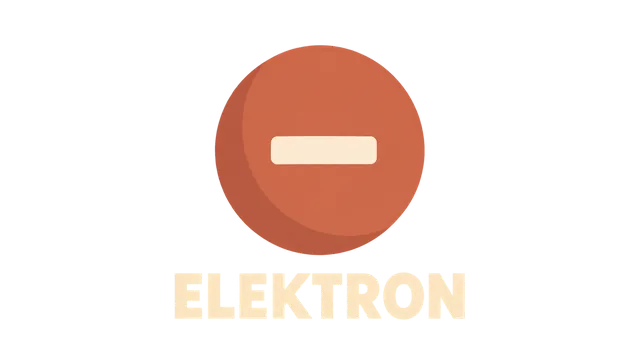
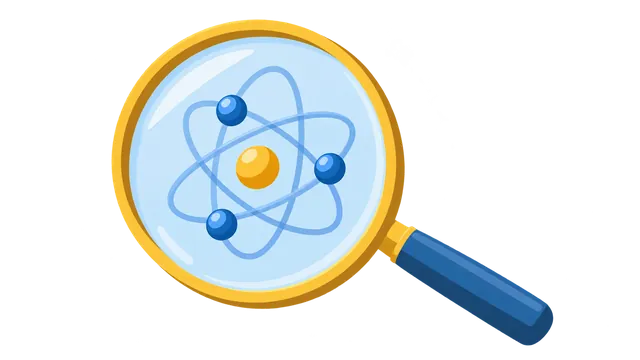
Nahraď popsané symboly názornými ilustracemi atomu a éteru

diff --git a/skills/faakt-illustrations/SKILL.md b/skills/faakt-illustrations/SKILL.md
@@ -20,9 +20,10 @@ Create recognizable, restrained editorial raster artwork from each post's `illus
 
 ### Meaning before generation
 
-- Define what a reader should recognize at a glance: the discovered entity, the experimental result, or the particular historical event. An instrument is a good main motif only when its action or result is readable without specialist knowledge. Otherwise prefer the discovered entity or a simple comparison of the result. Do not accept an uninformative apparatus by relabeling it as topic accompaniment in provenance.
+- Define the visual idea a reader should recognize at a glance: a relationship, discovery, historical event or an idea being investigated. A scientific post does not require a measurement diagram; a coherent editorial visualization of the article's central idea can work better. An instrument or isolated particle alone is insufficient when it contributes no meaningful relationship or context.
 - Preserve the cues that identify the particular event before simplifying: characteristic architecture, collective action, national context or period dress may be necessary together. A generic fortress gate does not identify the storming of the Bastille. Distinguish retrospective editorial symbols from objects actually present at a historical event; verify uncertain period details.
-- Simple comparison diagrams, one clear equality sign, charge marks and a short readable label are allowed when they make the post's result understandable. They need not reproduce the historical measuring instrument. Mark conceptual comparisons honestly and avoid implying that illustrative clocks or symbols were actual experimental equipment. Simplicity and shape-count targets must not remove the fact the image is meant to convey.
+- Never draw an object and add its name underneath as an explanation: that duplicates information instead of adding meaning. Do not rescue a weak image with a caption, an equality sign, clock icons or a collection of schematic marks. Convey the idea through the visible relationship, context, interaction or revealing detail. Text is justified only when it contributes distinct content, such as the origin of an aid crate; it must not merely name the pictured subject. Do not change unrelated accepted assets just because this rule changed.
+- An editorial visualization may depict a historical hypothesis that the article investigates or rejects. Preserve that distinction in metadata and provenance rather than forcing every image to diagram the final result. For the ether post, light undulating through an imagined mist-like medium depicts the historical idea, not evidence that ether exists. A magnifying-glass view revealing electrons depicts atomic internal structure, not literal optical microscopy or a historical atomic model.
 - State the post's central idea and choose whether the image should explain a visible relationship or accompany the text with its actual subject. Use an action, consequence, contrast or adaptation when it can be shown faithfully. A restrained portrait or factual object is appropriate when forcing an abstract teaching into a diagram would require invented props; do not claim that such a portrait proves or fully explains the argument.
 - Supporting symbols and secondary objects are welcome when they meaningfully relate to the post's content and keep the composition easy to understand at thumbnail scale. They may interpret an abstract idea; they need not be literally mentioned in the text or indispensable to the main subject. Remove them only when they have no meaningful connection to the content or make the composition too complex to understand. Check metadata by the same criteria.
 - Keep a clear main motif. A supporting metaphor beside a philosopher or religious figure is acceptable when its connection to the teaching is meaningful and immediately readable. Preserve the curated composition of post 028: Buddha in calm meditation with his own empty hands resting naturally. Its rejected detached hand and gold ball are a case-specific decision, not a general ban on symbolic objects.
@@ -58,7 +59,7 @@ The helper contains the single shared STYLE; use it verbatim rather than adding 
 
 - Design for **160?90 CSS pixels**; it must also look clean at 320?180. Deliver at 640?360 for density, not additional detail.
 - Aim for **5–8 large flat shapes**, **no more than 3 foreground colors**, and **at least one third transparent negative space**. These are art-direction targets, not claims of machine-enforced counts. A scientifically necessary feature takes priority over an arbitrary shape count.
-- Use one main subject. Include supporting symbols and secondary subjects when they meaningfully relate to the content and preserve a clear composition. At most one flat shadow plane per object; no gradients, realistic lighting, reflections, grain, surface texture, fine linework or dense repeating elements.
+- Use one main subject. Include supporting symbols and secondary subjects when they meaningfully relate to the content and preserve a clear composition. Prefer flat shapes with at most one shadow plane; avoid realistic lighting, reflections, grain, fine linework and dense repeating elements. Restrained translucent shapes or soft transitions are allowed when mist, light or another soft medium is itself the meaningful subject. This does not authorize a decorative glow or an opaque background rectangle.
 - Prefer one striking main motif that captures the post's central idea and attracts attention at first glance. Supporting elements may clarify the idea or add meaningful context while keeping the main motif easy to recognize. Do not try to summarize every step or example in the article with multiple scenes. Post 040's workers–state spending–construction sequence is the upper limit of acceptable complexity, not a target or a style reference to imitate; new illustrations should normally be substantially simpler. Before generation, remove panels, figures or objects only when they have no meaningful connection to the content or make the composition too complex to understand. At 160×90, the viewer should recognize the main motif immediately without scanning a sequence.
 - Environment: reduce to 2?3 broad planes. For a river, use a broad winding ribbon and simple banks; do not invent a sunset, mountains, forest, rocks, waves or sparkling water. Include such objects when they meaningfully relate to the content and keep the composition easy to understand.
 - Portrait: use a face/robe silhouette with a few identifying features, not individual hair strands, wrinkles or embroidered cloth. Objects: prioritize outer contour and the minimum identifying internal marks.
@@ -76,7 +77,7 @@ The helper contains the single shared STYLE; use it verbatim rather than adding 
 
 ### Acceptance at thumbnail scale
 
-Compare the generated image with the intended recognition and the actual claim, not merely with the list of objects. For an experiment, verify that the observed outcome or discovered entity is visible; for a historical event, verify that its identifying context survived simplification. A recognizable technical object alone does not pass this check. A semantic failure may not be turned into acceptance by adding a disclaimer about accompaniment.
+Compare the generated image with the intended visual idea, not merely with the list of objects. For a scientific post, verify a meaningful relationship or article-specific concept without reading a caption; this may be a discovery, internal structure, interaction or historical hypothesis. A named isolated object or a schematic comparison needing explanation does not pass. For a historical event, verify that its identifying context survived simplification. A disclaimer cannot rescue an uninformative picture, but honest depiction of an investigated hypothesis is valid.
 
 First verify meaning: for an explanatory scene, identify the visible action or relationship and explain how it supports the post's central idea; for a subject-led portrait, verify the actual subject, relevant pose and meaningful connection of any supporting symbolism to the teaching, and record that it accompanies rather than diagrams the teaching. Audit secondary objects against the full text, not just the prompt: accept meaningful symbolic connections as well as literal subjects, and reject unrelated additions or confusing complexity. Reject a visually attractive image if the intended relationship is absent or disappears at thumbnail scale. Check this separately from simplicity, background and file-size requirements; record the reason in provenance.
 

diff --git a/skills/faakt-metadata-review/SKILL.md b/skills/faakt-metadata-review/SKILL.md
@@ -58,7 +58,7 @@ Preview with `apply`, inspect the diff it describes, then use `--write` for loca
 - **concept:** Choose an explanatory relationship (cause and effect, contrast, sequence, uncertainty, conflict or paradox) when the text supports a legible scene. For an abstract teaching that would require invented props, a restrained portrait of its actual author or teacher is valid; describe its accompanying role honestly instead of manufacturing a diagram. Prefer one coherent scene over a collage of article nouns or a portrait plus an unrelated symbolic vignette.
 - **primary_subject:** Use the actual central entity or mechanism. Check named people, species, places and events in the body. Avoid literal depictions of figurative wording, incidental objects, generic category symbols and discovery instruments displacing the discovered object.
 - **secondary_subjects:** Retain symbols and supporting objects that meaningfully relate to the full article and keep the composition understandable. They may interpret an abstract idea and need not be literally mentioned or indispensable. Remove unrelated additions, duplicates, aliases and objects that make the composition too complex. Preserve cues needed to identify a particular historical event rather than reducing it to generic architecture.
-- **experimental result:** Metadata must state the visible discovery, comparison or outcome. A technically relevant apparatus is insufficient when a reader cannot recognize its purpose at thumbnail scale; prefer the discovered entity or a clear conceptual comparison. A short readable label or equality/charge sign is allowed when it clarifies the result. Distinguish symbolic visualization from literal equipment and do not claim that a drawing proves a scientific conclusion.
+- **scientific visual idea:** Describe a meaningful visible relationship, revealing detail or article-specific concept rather than requiring a measurement diagram for every experiment. An isolated named particle or unexplained apparatus is insufficient. Do not add the subject's name underneath it or use captions and schematic marks to compensate for missing visual meaning. Text may add distinct information, such as origin, but may never merely name the pictured object. A historical hypothesis may be visualized as the subject of inquiry without asserting its truth; preserve that distinction in the concept and review. Prefer a coherent editorial image to an abstract diagram requiring explanation.
 - **visual_keywords:** Reinforce the chosen scene. Remove leftover decorations and word-fragment matches, such as architectural detail in a star scene.
 - **scene_type / composition_hints:** Match the intended scene and current supported schema. A board or chart is not a portrait; a process requires change; a comparison needs a clear relation.
 - **mood / palette:** Preserve appropriate choices. Correct clearly inappropriate emotional direction, such as a playful treatment of suffering. Palette alone rarely warrants a semantic correction.

diff --git a/CLAUDE.md b/CLAUDE.md
@@ -154,7 +154,7 @@ Doporučený postup:
 
 ## Shared skills for AI agents
 
-- Ilustrace experimentu musí na první pohled ukazovat objevený objekt nebo výsledek; samotný nečitelný přístroj nestačí ani s poznámkou, že pouze doprovází téma. Jednoduché porovnání, znaménko nebo krátký čitelný popisek jsou přípustné, pokud pomáhají pochopení. U historické události zachovej rozpoznávací znaky místa, děje a kontextu i při zjednodušování. Po přijetí opravené ilustrace ověř také její zapnutí v kartě. Podrobnosti obsahují ilustrační a metadatový skill.
+- Ilustrace musí nést význam viditelným vztahem, dějem, kontextem nebo odhaleným detailem. Nikdy nenahrazuj význam nakreslením objektu a jeho pojmenováním pod obrázkem; samotná částice ani nepochopitelné schéma nestačí. Text smí přidávat jinou informaci, například původ pomoci, nikoli opakovat název objektu. Vědecký příspěvek nemusí mít diagram výsledku: může názorně zobrazovat i zkoumanou historickou představu, například světlo v představovaném éteru, aniž by tvrdil, že hypotéza platí. U historické události zachovej rozpoznávací znaky místa, děje a kontextu. Po přijetí opravené ilustrace ověř také její zapnutí v kartě. Podrobnosti obsahují ilustrační a metadatový skill.
 
 - Při sdílení ilustrací rozlišuj obsahovou duplicitu od shody konkrétní scény. Oprava pozadí má zachovat nejlépe odpovídající námět; průhledná ilustrace jiného příběhu není automaticky náhradou. U experimentů ověř i směr účinku (u 009 pozitivnější hodnocení po malé odměně). Podrobnosti a výslovně zvolené sdílení 009/082 popisuje `skills/faakt-illustrations/SKILL.md`.
 
